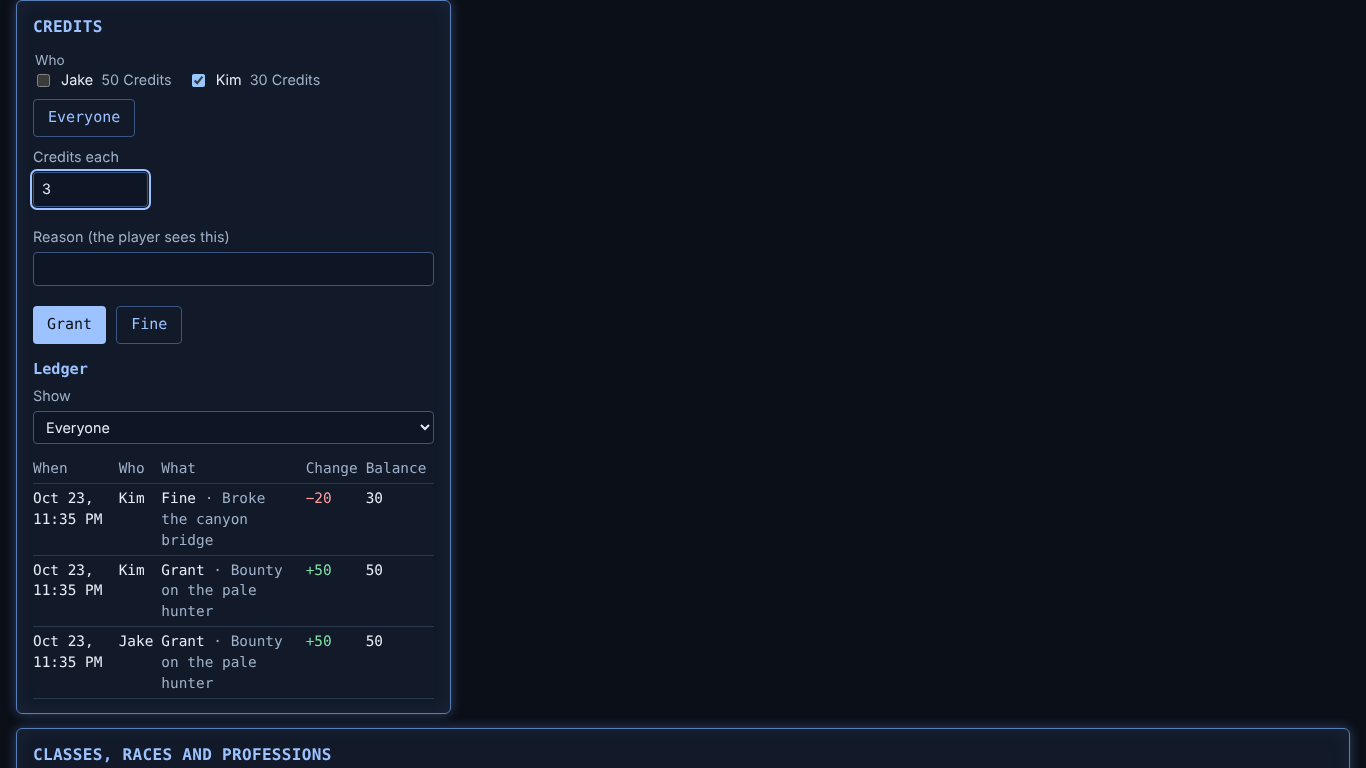
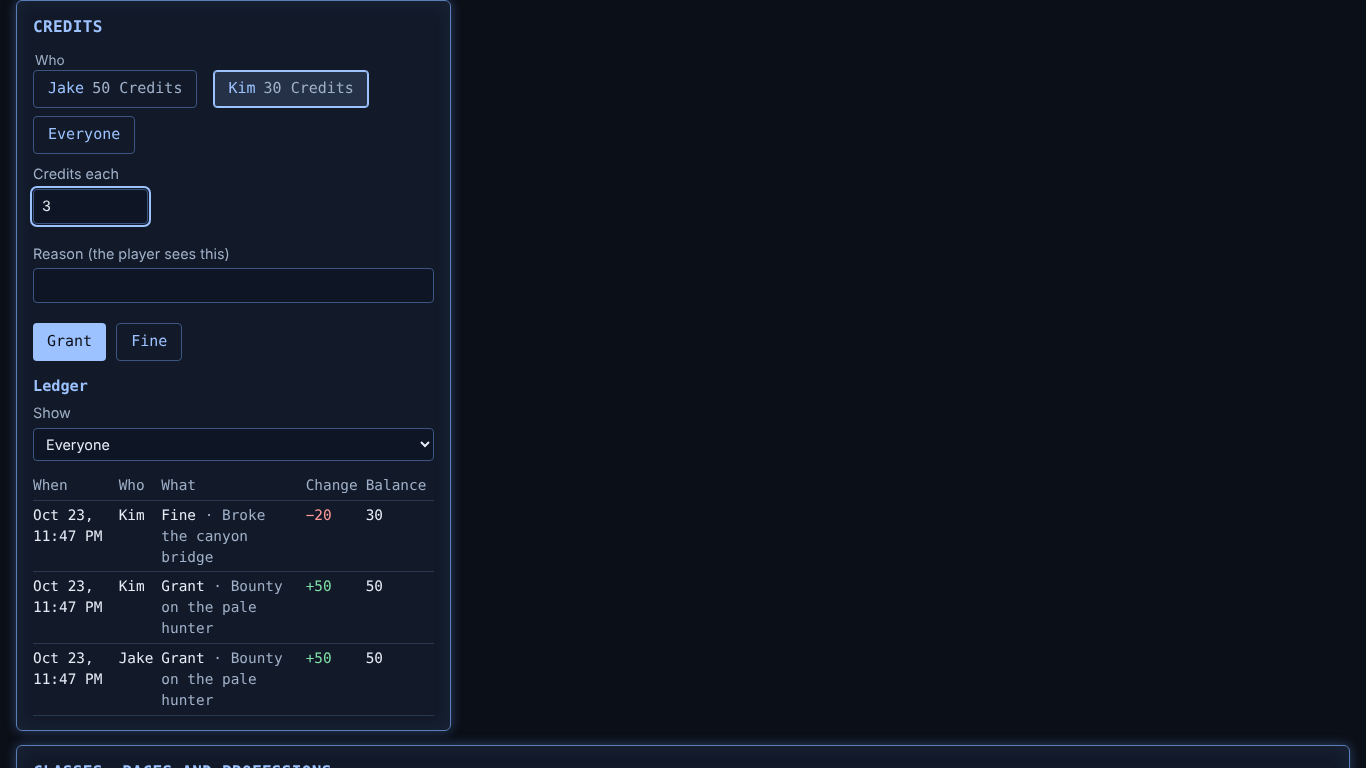
fix(M6.3): choose characters with toggle buttons so the window's controls never share a role and name with the XP award's checkboxes
Claude-Session: https://claude.ai/code/session_015noKh8fX1uW8wEfeL5dhu6

diff --git a/e2e/M6.3.spec.ts b/e2e/M6.3.spec.ts
@@ -79,8 +79,8 @@ test('the GM grants and fines currency; players see their own notices; the ledge
 
   // A fine for Kim alone; Jake is not told.
   // A send that went through leaves nobody chosen, so it cannot be repeated by accident.
-  await expect(win.getByRole('checkbox', { checked: true })).toHaveCount(0);
-  await win.getByRole('checkbox', { name: /Kim/ }).check();
+  await expect(win.getByRole('button', { pressed: true })).toHaveCount(0);
+  await win.getByRole('button', { name: /^Kim/ }).click();
   await win.getByLabel('Credits each').fill('20');
   await win.getByLabel('Reason (the player sees this)').fill('Broke the canyon bridge');
   await win.getByRole('button', { name: 'Fine' }).click();
@@ -92,7 +92,7 @@ test('the GM grants and fines currency; players see their own notices; the ledge
   await kim.page.screenshot({ path: path.join(shots, 'player-fine-390x844.png') });
 
   // A fine above Kim's balance is refused before anything is sent.
-  await win.getByRole('checkbox', { name: /Kim/ }).check();
+  await win.getByRole('button', { name: /^Kim/ }).click();
   await win.getByLabel('Credits each').fill('31');
   // Enter sends nothing: a grant and a fine each need their button.
   await win.getByLabel('Credits each').press('Enter');

diff --git a/apps/web/src/gm/CurrencyLedger.tsx b/apps/web/src/gm/CurrencyLedger.tsx
@@ -76,17 +76,18 @@ export function CurrencyLedger({ client, state }: { client: LiveClient; state: C
           <fieldset className="currency-who" disabled={busy}>
             <legend>Who</legend>
             {rows.map((r) => (
-              <label key={r.id} className="check currency-balance">
-                <input
-                  type="checkbox"
-                  checked={live.includes(r.id)}
-                  onChange={() => toggle(r.id)}
-                />
+              <button
+                key={r.id}
+                type="button"
+                className="secondary currency-balance"
+                aria-pressed={live.includes(r.id)}
+                onClick={() => toggle(r.id)}
+              >
                 <span>{r.name}</span>
                 <span className="muted" data-testid="currency-balance">
                   {r.balance} {currency}
                 </span>
-              </label>
+              </button>
             ))}
             <button
               type="button"

diff --git a/apps/web/src/styles.css b/apps/web/src/styles.css
@@ -2371,7 +2371,14 @@ ol.change-log li.undone .change-text {
   margin: 0 0 10px;
 }
 .currency-balance {
-  margin: 0;
+  display: inline-flex;
+  gap: 8px;
+  align-items: baseline;
+}
+.currency-balance[aria-pressed='true'] {
+  border-color: var(--accent);
+  box-shadow: 0 0 0 1px var(--accent) inset;
+  background: rgba(156, 194, 255, 0.14);
 }
 .currency-fields label:first-child input {
   width: 8em;
